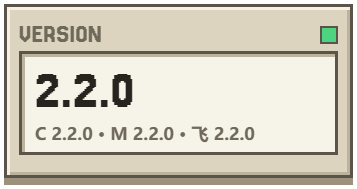
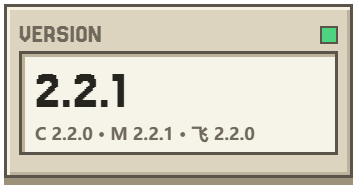
chore(release): 更新 magpie 目录与文档至 2.2.1
Release 资产与 npm 包已回读校验；同步 catalog/stable.json、README 版本卡与发行说明索引。

Changed region(s): [[0.3081, 0.3704, 0.3697, 0.582], [0.4622, 0.6614, 0.493, 0.7407]]

diff --git a/README.md b/README.md
@@ -12,18 +12,18 @@
 </picture>
 
 <p>
-  <a href="https://github.com/Fish-under-sea/FISH-DOCK-Plugins/releases/tag/v2.2.0"><picture><source media="(prefers-color-scheme: dark)" srcset="assets/readme/config-stat-version-zh-dark.png"><img src="assets/readme/config-stat-version-zh-light.png" alt="VERSION：三插件 2.2.0" width="23%"></picture></a>
+  <a href="https://github.com/Fish-under-sea/FISH-DOCK-Plugins/releases/tag/v2.2.1"><picture><source media="(prefers-color-scheme: dark)" srcset="assets/readme/config-stat-version-zh-dark.png"><img src="assets/readme/config-stat-version-zh-light.png" alt="VERSION：2.2.1（Magpie）" width="23%"></picture></a>
   <a href="#plugins"><picture><source media="(prefers-color-scheme: dark)" srcset="assets/readme/config-stat-desktop-zh-dark.png"><img src="assets/readme/config-stat-desktop-zh-light.png" alt="PLUGINS：三个独立插件" width="23%"></picture></a>
   <a href="#packages"><picture><source media="(prefers-color-scheme: dark)" srcset="assets/readme/config-stat-mail-zh-dark.png"><img src="assets/readme/config-stat-mail-zh-light.png" alt="PACKAGES：三个 npm 单包" width="23%"></picture></a>
   <a href="https://github.com/Fish-under-sea/FISH-Dock"><picture><source media="(prefers-color-scheme: dark)" srcset="assets/readme/config-stat-channels-zh-dark.png"><img src="assets/readme/config-stat-channels-zh-light.png" alt="HOST API：1，兼容 FISH Dock 2.0.0+" width="23%"></picture></a>
 </p>
 
-<p><img src="https://img.shields.io/badge/Node.js-24.14%2B-8fd6a0?style=flat-square&amp;logo=nodedotjs&amp;logoColor=white&amp;labelColor=5a544a" alt="Node.js 24.14+"> <img src="https://img.shields.io/badge/Adapter%20License-MIT-8fd6a0?style=flat-square&amp;labelColor=5a544a" alt="插件适配代码许可 MIT"> <img src="https://img.shields.io/badge/mihomo-GPL--3.0-f08a5d?style=flat-square&amp;labelColor=5a544a" alt="随包 mihomo 许可 GPL-3.0"> <img src="https://img.shields.io/badge/Plugins-2.2.0-8fd6a0?style=flat-square&amp;labelColor=5a544a" alt="三插件 2.2.0"></p>
+<p><img src="https://img.shields.io/badge/Node.js-24.14%2B-8fd6a0?style=flat-square&amp;logo=nodedotjs&amp;logoColor=white&amp;labelColor=5a544a" alt="Node.js 24.14+"> <img src="https://img.shields.io/badge/Adapter%20License-MIT-8fd6a0?style=flat-square&amp;labelColor=5a544a" alt="插件适配代码许可 MIT"> <img src="https://img.shields.io/badge/mihomo-GPL--3.0-f08a5d?style=flat-square&amp;labelColor=5a544a" alt="随包 mihomo 许可 GPL-3.0"> <img src="https://img.shields.io/badge/Plugins-2.2.1-8fd6a0?style=flat-square&amp;labelColor=5a544a" alt="Magpie 2.2.1"></p>
 <p><strong>FISH Plugins &amp; Configuration · 插件配置仓</strong><br>官方插件、配置说明与发行入口；按需安装，独立运行。</p>
 
 <p>
   <a href="#get-started"><picture><source media="(prefers-color-scheme: dark)" srcset="assets/readme/key-download-zh-dark.png"><img src="assets/readme/key-download-zh-light.png" alt="下载 / Releases" height="40"></picture></a>
-  <a href="https://github.com/Fish-under-sea/FISH-DOCK-Plugins/releases/tag/v2.2.0"><picture><source media="(prefers-color-scheme: dark)" srcset="assets/readme/key-release-zh-dark.png"><img src="assets/readme/key-release-zh-light.png" alt="更新记录" height="40"></picture></a>
+  <a href="https://github.com/Fish-under-sea/FISH-DOCK-Plugins/releases/tag/v2.2.1"><picture><source media="(prefers-color-scheme: dark)" srcset="assets/readme/key-release-zh-dark.png"><img src="assets/readme/key-release-zh-light.png" alt="更新记录" height="40"></picture></a>
   <a href="https://github.com/Fish-under-sea/FISH-DOCK-Plugins/issues"><picture><source media="(prefers-color-scheme: dark)" srcset="assets/readme/key-issues-zh-dark.png"><img src="assets/readme/key-issues-zh-light.png" alt="反馈 / Issues" height="40"></picture></a>
 </p>
 
@@ -35,7 +35,17 @@
 
 每个插件独立保存配置与凭据，按需启动，不共享业务密钥。插件仓只发布插件资源，桌面安装包请前往 [FISH-Dock](https://github.com/Fish-under-sea/FISH-Dock)。
 
-本版**三个插件统一到 2.2.0**：**Magpie** 补完 #24 的两块尾巴（设置页「语音 / 向量模型」选择器、`/v1/models` 的 `kind: audio/embedding`），外加三件新事——签到未告知积分补惯例值 **+100**、路由组新增**「图片输入」声明**（三态，与推理档位同款）、中转站探针的**图标分工修正**（侧边栏仍是图钉，插件列表大图恢复品牌立绘）。要求 **FISH Dock ≥ 2.0.0**。完整改动见 [2.2.0 发行说明](docs/releases/2.2.0.md)。
+本版 **Magpie 升到 2.2.1**，Clash 与飞书仍是 2.2.0。要求 **FISH Dock ≥ 2.0.0**。完整改动见 [2.2.1 发行说明](docs/releases/2.2.1.md)。
+
+**2.2.1 改了什么（仅 Magpie）**
+
+- **网页超链接承接**：本机内嵌管理页和插件 iframe 的 HTTP(S) 外链改走宿主受控打开入口，保留参数与 hash，打开失败回传错误；独立浏览器与远端网页保持原行为。真实 Edge 已验证独立、网页、Dock 型嵌入三种模式下的鼠标/键盘、站内路由/锚点和单次打开。
+- **邀请资料透传**：授权 `user` 的 aff 字段与账户标识进入 `Account`/`View`，未知与 0 分离，当前/历史奖励分开；新授权不沿用旧账户资料。
+- **账户生命周期隔离**：断开/换号后的在途旧钱包响应与晚到的授权不再写回，迟到保存不覆盖新状态。
+- **前台超时网页兜底**：25 秒总时限或服务端错误时保留原错误并打开对应网站页面，后台静默、不重发有状态 POST、不留令牌或兑换码在 URL。
+- **模型启停回归**：以实际工厂第二参数 `disabledModels` 验证 options.set → provider.models → 缓存 → 列表链路，修正旧诊断夹具的假阳性。
+- **已知边界**：兑换桥接与 `/api/magpie/device/*` 前缀迁移仍待站点与独立插件配套，本版不虚构 `redeem` 能力，详见发行说明。
+
 
 **2.2.0 改了什么**
 
@@ -153,7 +163,7 @@
 
 <h2 id="get-started"><picture><source media="(prefers-color-scheme: dark)" srcset="assets/readme/section-install-dark.png"><img src="assets/readme/section-install-light.png" alt="INSTALL · 安装使用" width="100%"></picture></h2>
 
-安装前先核对宿主版本：Clash 与飞书是 2.1.5、Magpie 是 2.1.6，**FISH Dock 需要 2.0.0 及以上**；1.2.3 及更早的宿主会因清单里的 `behaviors` 字段拒装。
+安装前先核对宿主版本：Clash 与飞书是 2.2.0、Magpie 是 2.2.1，**FISH Dock 需要 2.0.0 及以上**；1.2.3 及更早的宿主会因清单里的 `behaviors` 字段拒装。
 
 **方式一：Dock 内插件市场（推荐）**
 
@@ -163,27 +173,27 @@
 
 **方式二：npm 单包**
 
-1. `npm install @fish-under-sea/fish-dock-plugin-<插件>@2.1.5`（三个包名见下方「npm 单包」一节）。
+1. `npm install @fish-under-sea/fish-dock-plugin-<插件>@<版本>`（三个包名与各包当前版本见下方「npm 单包」一节）。
 2. `npx @fish-under-sea/fish-dock-plugin-<插件> --out C:/work/plugins`：把已校验的 `.fish-plugin` 复制到指定目录；目标已存在同名文件时命令会停下，不覆盖。
 3. 在 Dock 的「插件」页导入该 `.fish-plugin`，其余同方式一。
 
-下表给出三个插件对应的 GitHub 包与 npm 单包；GitHub 链接指向本次使用的 Release tag，发布前可能尚未生效。OFM 不在表里——它不随 Dock 显示，只在上面那一节的手动下载入口里。
+下表给出三个插件对应的 GitHub 包与 npm 单包；GitHub 链接指向当前 Release tag。OFM 不在表里——它不随 Dock 显示，只在上面那一节的手动下载入口里。
 
 | 插件 | GitHub 包 | npm 单包 |
 | --- | --- | --- |
 | 飞书 2.2.0 | [`feishu.fish-plugin`](https://github.com/Fish-under-sea/FISH-DOCK-Plugins/releases/download/v2.2.0/feishu.fish-plugin) | [`@fish-under-sea/fish-dock-plugin-feishu`](https://www.npmjs.com/package/@fish-under-sea/fish-dock-plugin-feishu) |
 | Clash 2.2.0 | [`clash.fish-plugin`](https://github.com/Fish-under-sea/FISH-DOCK-Plugins/releases/download/v2.2.0/clash.fish-plugin) | [`@fish-under-sea/fish-dock-plugin-clash`](https://www.npmjs.com/package/@fish-under-sea/fish-dock-plugin-clash/v/2.1.4) |
-| Magpie 2.2.0 | [`magpie.fish-plugin`](https://github.com/Fish-under-sea/FISH-DOCK-Plugins/releases/download/v2.2.0/magpie.fish-plugin) | [`@fish-under-sea/fish-dock-plugin-magpie`](https://www.npmjs.com/package/@fish-under-sea/fish-dock-plugin-magpie/v/2.1.4) |
+| Magpie 2.2.1 | [`magpie.fish-plugin`](https://github.com/Fish-under-sea/FISH-DOCK-Plugins/releases/download/v2.2.1/magpie.fish-plugin) | [`@fish-under-sea/fish-dock-plugin-magpie`](https://www.npmjs.com/package/@fish-under-sea/fish-dock-plugin-magpie/v/2.2.1) |
 
 <h2 id="packages"><picture><source media="(prefers-color-scheme: dark)" srcset="assets/readme/section-packages-dark.png"><img src="assets/readme/section-packages-light.png" alt="PACKAGES · npm 单包" width="100%"></picture></h2>
 
-每个 npm 包只包含一个对应的插件归档和下载 CLI（bin 名 `fish-dock-plugin-<插件>`），不运行安装后脚本，不修改 Dock 或系统设置。**Clash 与飞书是 2.1.5、Magpie 是 2.1.6**（OFM 单包停在 2.0.1，只供手动下载），要求 **Node.js ≥ 24** 与 **FISH Dock ≥ 2.0.0**。
+每个 npm 包只包含一个对应的插件归档和下载 CLI（bin 名 `fish-dock-plugin-<插件>`），不运行安装后脚本，不修改 Dock 或系统设置。**Clash 与飞书是 2.1.5、Magpie 是 2.2.1**（OFM 单包停在 2.0.1，只供手动下载），要求 **Node.js ≥ 24** 与 **FISH Dock ≥ 2.0.0**。
 
 | npm 单包（完整包名） | 版本 | bin | `npm pack` 体积 |
 | --- | --- | --- | --- |
 | `@fish-under-sea/fish-dock-plugin-feishu` | 2.1.5 | `fish-dock-plugin-feishu` | 27.7 kB（6 个文件） |
 | `@fish-under-sea/fish-dock-plugin-clash` | 2.1.5 | `fish-dock-plugin-clash` | 16.4 MB（7 个文件，含 mihomo 许可） |
-| `@fish-under-sea/fish-dock-plugin-magpie` | 2.1.6 | `fish-dock-plugin-magpie` | 29.5 MB（7 个文件，含 Magpie 许可） |
+| `@fish-under-sea/fish-dock-plugin-magpie` | 2.2.1 | `fish-dock-plugin-magpie` | 34.0 MB（7 个文件，含 Magpie 许可） |
 | `@fish-under-sea/fish-dock-plugin-ofm` | 2.0.1（暂停维护，仅手动） | `fish-dock-plugin-ofm` | 1.9 MB（6 个文件） |
 
 ```powershell
@@ -215,7 +225,7 @@ node --test --test-isolation=none 'plugins/feishu/*.test.mjs' 'plugins/clash/*.t
 | [自编译 Magpie](plugins/magpie/tools/README.md) | 补丁清单与每一处为什么补、构建命令、版本标识、跟着上游升级时会踩的坑 |
 | [签到页说明](plugins/magpie/page-plugins/page-checkin/README.md) | 宿主提供哪些读与调用、「预装插件美化」开关怎么工作、素材为什么编进 exe |
 | [厂商素材来源](plugins/magpie/page-plugins/page-checkin/page/logos/README.md) | 每张厂商图的来源、裁切范围与授权状况 |
-| [发行说明](docs/releases/) | 逐版本的改动与验证；最新是 [2.1.6](docs/releases/2.1.6.md) |
+| [发行说明](docs/releases/) | 逐版本的改动与验证；最新是 [2.2.1](docs/releases/2.2.1.md) |
 | [第三方许可](THIRD_PARTY_NOTICES.md) | 随包运行时的许可与来源（mihomo 的 GPL-3.0、Magpie 的随包许可等） |
 | [README 头图维护](assets/readme/MAINTAINING.md) | 头图怎么渲染、字号与卡片尺寸的约束、哪些东西不能换 |
 
@@ -229,7 +239,7 @@ node --test --test-isolation=none 'plugins/feishu/*.test.mjs' 'plugins/clash/*.t
 
 整个 Magpie 插件的地基。供应商注册、页面与面板桥、签到与额度读取、网关路由，全部是上游的代码；本仓写着「Magpie 插件」的那层，实际上只是它的适配层、页面与发布工具。
 
-本仓发布的 `magpie.fish-plugin` 走的是**其源码自编译**：基线上游 tag（当前 `v0.1.2732`，2.1.4 起随上游换新），加上 `patches/` 里我们自己的补丁（页面在 CSP 沙箱里发不出任何请求，所以补一条 `magpie.call` 通道；以及预装插件的图标由本地一套素材接管）。补丁的每一处、为什么补、怎么复现，都写在 [plugins/magpie/tools/README.md](plugins/magpie/tools/README.md) 里。上游的版本标识与第三方声明随包保留（`licenses/Magpie.txt`）。
+本仓发布的 `magpie.fish-plugin` 走的是**其源码自编译**：基线上游 tag（当前 `v0.1.2799`），加上 `patches/` 里我们自己的累计补丁（当前 `fish.15`：页面在 CSP 沙箱里发不出任何请求，所以补一条 `magpie.call` 通道；以及预装插件的图标由本地一套素材接管）。补丁的每一处、为什么补、怎么复现，都写在 [plugins/magpie/tools/README.md](plugins/magpie/tools/README.md) 里。上游的版本标识与第三方声明随包保留（`licenses/Magpie.txt`）。
 
 ### [mihomo](https://github.com/MetaCubeX/mihomo) · Clash 内核
 

diff --git a/plugins/magpie/tools/README.md b/plugins/magpie/tools/README.md
@@ -1,6 +1,6 @@
 # 自编译 magpie：构建与上游同步
 
-插件包里的 `service/magpie.exe` 由本目录的脚本编译，基线是上游 `v0.1.2799`，加上 `patches/magpie-v0.1.2799+fish.13.patch`（2.1.9 起；2.1.8 是同一基线的 `fish.12`，2.1.4–2.1.7 是 `v0.1.2732` + `fish.9`–`fish.11`，2.1.3 及更早是 `v0.1.2336` + `fish.1–fish.8`，旧补丁留在 `patches/` 备查）。
+插件包里的 `service/magpie.exe` 由本目录的脚本编译，基线是上游 `v0.1.2799`，加上 `patches/magpie-v0.1.2799+fish.15.patch`（2.2.1；累计包含 `fish.14` 及本版新增）。旧补丁留在 `patches/` 备查：`fish.13` 用于 2.1.9–2.2.0，`fish.12` 用于 2.1.8，2.1.4–2.1.7 是 `v0.1.2732` + `fish.9`–`fish.11`，2.1.3 及更早是 `v0.1.2336` + `fish.1–fish.8`。
 
 ## 为什么要自己编
 
@@ -66,15 +66,15 @@ python tools\download-go.py
 git clone --filter=blob:none --no-checkout https://github.com/yetone/magpie.git upstream
 git -C upstream fetch --depth=1 origin tag v0.1.2799
 git -C upstream worktree add ..\upstream-2799 v0.1.2799
-git -C ..\upstream-2799 apply --check patches\magpie-v0.1.2799+fish.13.patch
-git -C ..\upstream-2799 apply patches\magpie-v0.1.2799+fish.13.patch
+git -C ..\upstream-2799 apply --check patches\magpie-v0.1.2799+fish.15.patch
+git -C ..\upstream-2799 apply patches\magpie-v0.1.2799+fish.15.patch
 
 # 3) 编（本机没有 make，手跑 release-windows 的两段式）
 #    -WinresJson 必须指向补丁带进 upstream 的那份：go-winres 按 json 所在目录
 #    解析图标路径，指向别处会报 "open ...\icon-256.png: cannot find the file"。
 pwsh -File tools\build-magpie.ps1 `
   -UpstreamRoot ..\upstream-2799 `
-  -VersionTag 'v0.1.2799+fish.13' -FileVersion '0.1.2799.13' -ProductName 'magpie fish' `
+  -VersionTag 'v0.1.2799+fish.15' -FileVersion '0.1.2799.15' -ProductName 'magpie fish' `
   -WinresJson ..\upstream-2799\build\windows\fish-winres.json `
   -Out dist\magpie-windows-amd64.exe
 ```
